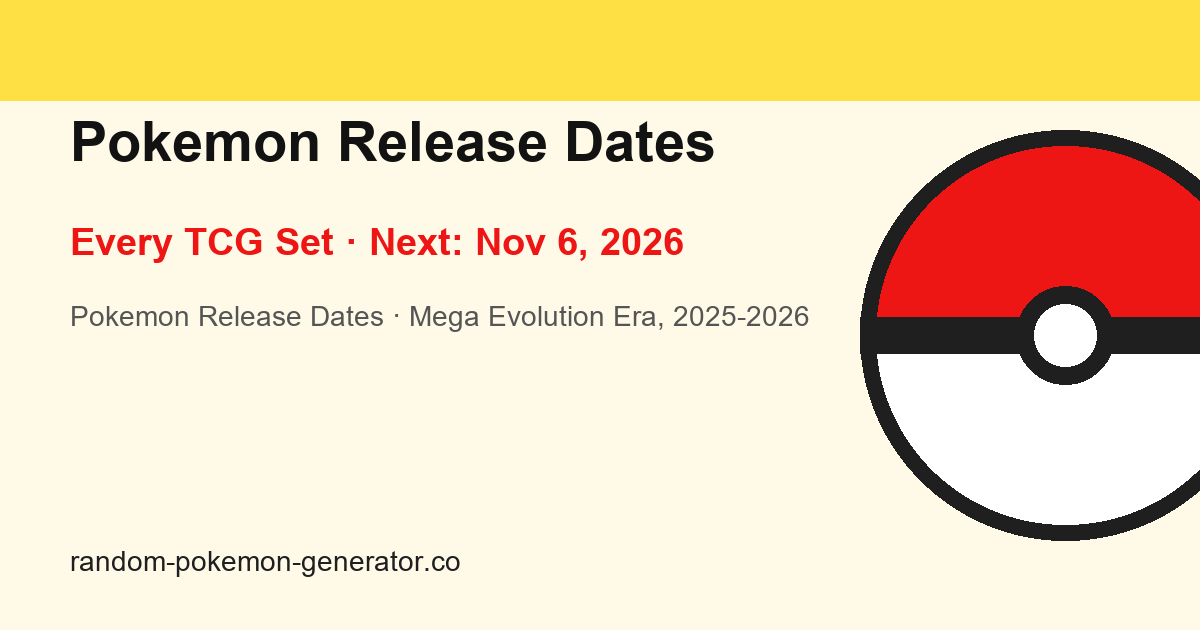
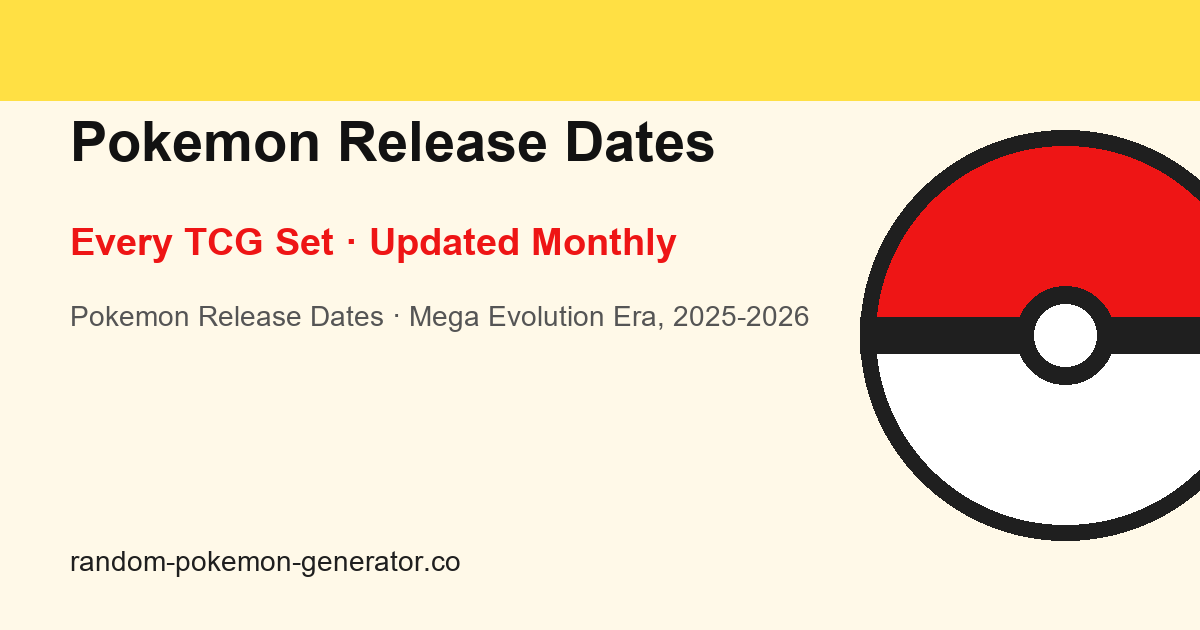
feat(release-dates): launch package - title 60 / update history / box degrade / month focus / card dates / FAQ 10
- Title -> 60-char version (Every TCG Set ... Release Calendar), synced to og/twitter
- Answer box: hook ids + JS auto-degrade after Nov 6 2026 (TBA state, hides calendar link); "Next scheduled update" line
- Update History section (launch row) at page bottom; month focus chips (last/this/next) with row highlight
- New "Pokemon Card Release Dates" section; rhythm H2 now mentions expansions; time datetime on table dates
- FAQ: 10 items (2026 slate = 4 main + 2 special; soft updated-cadence wording); q8 renamed to PAA phrasing
- og-image subtitle now timeless (Every TCG Set - Updated Monthly)
- SEO-KEYWORDS row 36 refreshed
- checks: build 37/37, smoke 40/40, site verifier green (only known links/ red)

Changed region(s): [[0.3083, 0.3619, 0.5858, 0.4222]]

diff --git a/pokemon-release-dates/index.html b/pokemon-release-dates/index.html
@@ -12,14 +12,14 @@
   </script>
   <meta charset="UTF-8" />
   <meta name="viewport" content="width=device-width, initial-scale=1.0" />
-  <title>Pokemon Release Dates 2026: Every TCG Set &amp; What's Next</title>
+  <title>Pokemon Release Dates 2026: Every TCG Set &amp; Release Calendar</title>
   <meta name="description" content="Pokemon release dates for every set: the next one, the full 2025-2026 set list in order, and a release calendar checked monthly against official announcements." />
   <meta name="robots" content="index, follow" />
   <meta name="author" content="Random Pokemon Generator" />
   <link rel="canonical" href="https://www.random-pokemon-generator.co/pokemon-release-dates/" />
 
   <!-- Open Graph -->
-  <meta property="og:title" content="Pokemon Release Dates 2026: Every TCG Set &amp; What's Next" />
+  <meta property="og:title" content="Pokemon Release Dates 2026: Every TCG Set &amp; Release Calendar" />
   <meta property="og:description" content="Pokemon release dates for every set: the next one, the full 2025-2026 set list in order, and a release calendar checked monthly against official announcements." />
   <meta property="og:type" content="website" />
   <meta property="og:url" content="https://www.random-pokemon-generator.co/pokemon-release-dates/" />
@@ -30,7 +30,7 @@
 
   <!-- Twitter Card -->
   <meta name="twitter:card" content="summary_large_image" />
-  <meta name="twitter:title" content="Pokemon Release Dates 2026: Every TCG Set &amp; What's Next" />
+  <meta name="twitter:title" content="Pokemon Release Dates 2026: Every TCG Set &amp; Release Calendar" />
   <meta name="twitter:description" content="Pokemon release dates for every set: the next one, the full 2025-2026 set list in order, and a release calendar checked monthly against official announcements." />
   <meta name="twitter:image" content="https://www.random-pokemon-generator.co/pokemon-release-dates/og-image.png" />
 
@@ -53,6 +53,7 @@
     .rd-cal .rd-mo { flex: 0 0 150px; font-weight: 700; }
     .rd-cal .rd-quiet { color: rgba(18, 18, 18, 0.55); }
     .rd-status-upcoming { font-weight: 800; }
+    .rd-cal li[data-focus] { background: rgba(255, 224, 68, 0.35); border-radius: 6px; }
   </style>
 
   <!-- Structured data: WebPage -->
@@ -156,10 +157,26 @@
       },
       {
         "@type": "Question",
-        "name": "What set comes after Delta Reign?",
+        "name": "What Pokemon set is after Delta Reign?",
         "acceptedAnswer": {
           "@type": "Answer",
           "text": "Nothing is announced yet — 2027's calendar is still empty, and this page only lists officially announced sets. When the next one is confirmed it gets added here with its date."
+        }
+      },
+      {
+        "@type": "Question",
+        "name": "What Pokemon sets are released in 2026?",
+        "acceptedAnswer": {
+          "@type": "Answer",
+          "text": "2026's slate: four main expansions — Perfect Order (March 27), Chaos Rising (May 22), Pitch Black (July 17) and Delta Reign (November 6) — plus two special sets, Ascended Heroes (January 30) and 30th Celebration (September 16)."
+        }
+      },
+      {
+        "@type": "Question",
+        "name": "How often is this page updated?",
+        "acceptedAnswer": {
+          "@type": "Answer",
+          "text": "The calendar is checked against official announcements at least once a month, and every confirmed change is recorded in the update history at the bottom of this page."
         }
       }
     ]
@@ -236,29 +253,29 @@
     <!-- Next set answer box -->
     <section class="container tool-panel" id="next" aria-label="The next Pokemon TCG set">
       <div class="panel cornered">
-        <p class="tool-hint">The short answer: the next Pokemon TCG set is Mega Evolution—Delta Reign, releasing November 6, 2026. The newest set already out is 30th Celebration, from September 16, 2026.</p>
+        <p class="tool-hint" id="rd-hint">The short answer: the next Pokemon TCG set is Mega Evolution—Delta Reign, releasing November 6, 2026. The newest set already out is 30th Celebration, from September 16, 2026.</p>
 
         <div class="odds-result-grid" aria-live="polite">
           <div class="odds-result-card cornered">
-            <div class="odds-result-num">Delta Reign</div>
-            <div class="odds-result-label">The next set</div>
+            <div class="odds-result-num" id="rd-next-num">Delta Reign</div>
+            <div class="odds-result-label" id="rd-next-label">The next set</div>
           </div>
           <div class="odds-result-card cornered">
-            <div class="odds-result-num">Nov 6, 2026</div>
-            <div class="odds-result-label">Release date</div>
+            <div class="odds-result-num" id="rd-date-num">Nov 6, 2026</div>
+            <div class="odds-result-label" id="rd-date-label">Release date</div>
           </div>
           <div class="odds-result-card cornered">
             <div class="odds-result-num" id="rd-countdown">—</div>
-            <div class="odds-result-label">Countdown to release</div>
+            <div class="odds-result-label" id="rd-countdown-label">Countdown to release</div>
           </div>
         </div>
 
         <div class="actions">
-          <a class="btn-slide cornered" href="https://calendar.google.com/calendar/render?action=TEMPLATE&amp;text=Mega%20Evolution%E2%80%94Delta%20Reign%20releases&amp;dates=20261106/20261107&amp;details=Pokemon%20TCG%3A%20Delta%20Reign%20releases%20November%206%2C%202026.%20Release%20calendar%20tracked%20at%20random-pokemon-generator.co" target="_blank" rel="noopener noreferrer"><span>📅 Add the release date to your calendar</span></a>
+          <a class="btn-slide cornered" id="rd-cal-link" href="https://calendar.google.com/calendar/render?action=TEMPLATE&amp;text=Mega%20Evolution%E2%80%94Delta%20Reign%20releases&amp;dates=20261106/20261107&amp;details=Pokemon%20TCG%3A%20Delta%20Reign%20releases%20November%206%2C%202026.%20Release%20calendar%20tracked%20at%20random-pokemon-generator.co" target="_blank" rel="noopener noreferrer"><span>📅 Add the release date to your calendar</span></a>
           <a class="btn-slide cornered" href="#sets"><span>See the full set list ↓</span></a>
         </div>
 
-        <p class="tool-note" id="rd-updated">Last checked against official announcements: September 2026. This page is reviewed monthly — the answer above changes when The Pokemon Company announces a new set or shifts one.</p>
+        <p class="tool-note" id="rd-updated">Last checked against official announcements: September 2026. Next scheduled update: November 2026. This page is reviewed monthly — the answer above changes when The Pokemon Company announces a new set or shifts one.</p>
       </div>
     </section>
 
@@ -280,14 +297,14 @@
             <tr><th>Got it</th><th>Set</th><th>Release date</th><th>Status</th><th>Notes</th></tr>
           </thead>
           <tbody>
-            <tr class="rd-row" data-year="2026" data-status="upcoming"><td><input type="checkbox" class="rd-got" data-set="delta-reign" aria-label="Mark Delta Reign as collected" /></td><td>Delta Reign</td><td>November 6, 2026</td><td class="rd-status-upcoming">Upcoming</td><td>Next main expansion · Mega Rayquaza ex; based on Japan's Storm Emeralda (July 31).</td></tr>
-            <tr class="rd-row" data-year="2026" data-status="released"><td><input type="checkbox" class="rd-got" data-set="30th-celebration" aria-label="Mark 30th Celebration as collected" /></td><td>30th Celebration</td><td>September 16, 2026</td><td>Released</td><td>Anniversary special set · first Pokemon TCG launch to go worldwide on one day.</td></tr>
-            <tr class="rd-row" data-year="2026" data-status="released"><td><input type="checkbox" class="rd-got" data-set="pitch-black" aria-label="Mark Pitch Black as collected" /></td><td>Pitch Black</td><td>July 17, 2026</td><td>Released</td><td>115+ cards · Mega Darkrai ex; based on Japan's Abyss Eye.</td></tr>
-            <tr class="rd-row" data-year="2026" data-status="released"><td><input type="checkbox" class="rd-got" data-set="chaos-rising" aria-label="Mark Chaos Rising as collected" /></td><td>Chaos Rising</td><td>May 22, 2026</td><td>Released</td><td>120+ cards · Mega Greninja ex; pre-release events ran May 9-17.</td></tr>
-            <tr class="rd-row" data-year="2026" data-status="released"><td><input type="checkbox" class="rd-got" data-set="perfect-order" aria-label="Mark Perfect Order as collected" /></td><td>Perfect Order</td><td>March 27, 2026</td><td>Released</td><td>120+ cards · Mega Zygarde ex headlines.</td></tr>
-            <tr class="rd-row" data-year="2026" data-status="released"><td><input type="checkbox" class="rd-got" data-set="ascended-heroes" aria-label="Mark Ascended Heroes as collected" /></td><td>Ascended Heroes</td><td>January 30, 2026</td><td>Released</td><td>295 cards · special set, the era's biggest checklist.</td></tr>
-            <tr class="rd-row" data-year="2025" data-status="released"><td><input type="checkbox" class="rd-got" data-set="phantasmal-flames" aria-label="Mark Phantasmal Flames as collected" /></td><td>Phantasmal Flames</td><td>November 14, 2025</td><td>Released</td><td>120+ cards · second main expansion of the era.</td></tr>
-            <tr class="rd-row" data-year="2025" data-status="released"><td><input type="checkbox" class="rd-got" data-set="mega-evolution" aria-label="Mark Mega Evolution as collected" /></td><td>Mega Evolution</td><td>September 26, 2025</td><td>Released</td><td>188 cards · opened the era with Mega Lucario ex.</td></tr>
+            <tr class="rd-row" data-year="2026" data-status="upcoming"><td><input type="checkbox" class="rd-got" data-set="delta-reign" aria-label="Mark Delta Reign as collected" /></td><td>Delta Reign</td><td><time datetime="2026-11-06">November 6, 2026</time></td><td class="rd-status-upcoming">Upcoming</td><td>Next main expansion · Mega Rayquaza ex; based on Japan's Storm Emeralda (July 31).</td></tr>
+            <tr class="rd-row" data-year="2026" data-status="released"><td><input type="checkbox" class="rd-got" data-set="30th-celebration" aria-label="Mark 30th Celebration as collected" /></td><td>30th Celebration</td><td><time datetime="2026-09-16">September 16, 2026</time></td><td>Released</td><td>Anniversary special set · first Pokemon TCG launch to go worldwide on one day.</td></tr>
+            <tr class="rd-row" data-year="2026" data-status="released"><td><input type="checkbox" class="rd-got" data-set="pitch-black" aria-label="Mark Pitch Black as collected" /></td><td>Pitch Black</td><td><time datetime="2026-07-17">July 17, 2026</time></td><td>Released</td><td>115+ cards · Mega Darkrai ex; based on Japan's Abyss Eye.</td></tr>
+            <tr class="rd-row" data-year="2026" data-status="released"><td><input type="checkbox" class="rd-got" data-set="chaos-rising" aria-label="Mark Chaos Rising as collected" /></td><td>Chaos Rising</td><td><time datetime="2026-05-22">May 22, 2026</time></td><td>Released</td><td>120+ cards · Mega Greninja ex; pre-release events ran May 9-17.</td></tr>
+            <tr class="rd-row" data-year="2026" data-status="released"><td><input type="checkbox" class="rd-got" data-set="perfect-order" aria-label="Mark Perfect Order as collected" /></td><td>Perfect Order</td><td><time datetime="2026-03-27">March 27, 2026</time></td><td>Released</td><td>120+ cards · Mega Zygarde ex headlines.</td></tr>
+            <tr class="rd-row" data-year="2026" data-status="released"><td><input type="checkbox" class="rd-got" data-set="ascended-heroes" aria-label="Mark Ascended Heroes as collected" /></td><td>Ascended Heroes</td><td><time datetime="2026-01-30">January 30, 2026</time></td><td>Released</td><td>295 cards · special set, the era's biggest checklist.</td></tr>
+            <tr class="rd-row" data-year="2025" data-status="released"><td><input type="checkbox" class="rd-got" data-set="phantasmal-flames" aria-label="Mark Phantasmal Flames as collected" /></td><td>Phantasmal Flames</td><td><time datetime="2025-11-14">November 14, 2025</time></td><td>Released</td><td>120+ cards · second main expansion of the era.</td></tr>
+            <tr class="rd-row" data-year="2025" data-status="released"><td><input type="checkbox" class="rd-got" data-set="mega-evolution" aria-label="Mark Mega Evolution as collected" /></td><td>Mega Evolution</td><td><time datetime="2025-09-26">September 26, 2025</time></td><td>Released</td><td>188 cards · opened the era with Mega Lucario ex.</td></tr>
           </tbody>
         </table>
       </div>
@@ -300,6 +317,14 @@
       <h2 id="upcoming-title">Upcoming Pokemon Sets: What Is on the Calendar</h2>
       <p class="odds-lede">One set stands between now and 2027: Mega Evolution—Delta Reign, on November 6, 2026. It is the sixth main expansion of the era, built around Mega Rayquaza ex, and the international release of Japan's Storm Emeralda. Expect the usual product wave on day one — Elite Trainer Boxes, booster displays and bundles — with Build &amp; Battle events in the run-up.</p>
       <p class="odds-lede">And then? Nothing, officially. No Pokemon TCG release dates for 2027 have been announced yet — anything you read about next year's sets is speculation, not a date. When The Pokemon Company names the next one (announcements typically land two to three months before release), it gets added here with the rest of the calendar.</p>
+    </section>
+
+    <!-- Card release dates -->
+    <section id="card-dates" class="container odds" aria-labelledby="card-dates-title">
+      <p class="eyebrow">Card level</p>
+      <h2 id="card-dates-title">Pokemon Card Release Dates: When Cards Actually Hit Shelves</h2>
+      <p class="odds-lede">A set's release date is really a week, not a day. Most expansions open with pre-release events at local game stores about two weeks before the official date — Chaos Rising ran its pre-releases May 9-17 before arriving on May 22 — and then the main wave lands everywhere at once: booster boxes, Elite Trainer Boxes and booster bundles all ship on the same day.</p>
+      <p class="odds-lede">Special sets do it differently. Ascended Heroes and 30th Celebration arrived through collection products rather than a standard booster box, and their supporting products can spread over the following weeks instead of landing on one day. Promo cards run on their own schedules too — store promos are handed out at play events, not sold on release day. So when you are planning a purchase, the date in the table above tells you when the main wave hits; the notes flag anything unusual about a specific set.</p>
     </section>
 
     <!-- In order -->
@@ -325,23 +350,29 @@
       <p class="eyebrow">Calendar</p>
       <h2 id="calendar-title">Pokemon TCG Release Calendar: Month by Month</h2>
       <p class="odds-lede">A month-level view of the same schedule — handy when you are planning a purchase window. Only headline set releases are listed; announcement and product waves land in between.</p>
+      <div class="btn-row rd-controls" id="rd-month-chips" role="group" aria-label="Focus a month">
+        <button type="button" class="chip-btn rd-month-chip" data-offset="-1" aria-pressed="false">Last month</button>
+        <button type="button" class="chip-btn rd-month-chip" data-offset="0" aria-pressed="false">This month</button>
+        <button type="button" class="chip-btn rd-month-chip" data-offset="1" aria-pressed="false">Next month</button>
+      </div>
+      <p class="rd-filter-note" id="rd-month-note" aria-live="polite">Pick a month — or read the full list below.</p>
       <ul class="rd-cal">
-        <li><span class="rd-mo">Sep 2025</span><span>Mega Evolution (Sep 26)</span></li>
-        <li><span class="rd-mo">Oct 2025</span><span class="rd-quiet">EMEA got Mega Evolution late (Oct 10) after a delivery delay</span></li>
-        <li><span class="rd-mo">Nov 2025</span><span>Phantasmal Flames (Nov 14)</span></li>
-        <li><span class="rd-mo">Dec 2025</span><span class="rd-quiet">No new set</span></li>
-        <li><span class="rd-mo">Jan 2026</span><span>Ascended Heroes (Jan 30)</span></li>
-        <li><span class="rd-mo">Feb 2026</span><span class="rd-quiet">No new set</span></li>
-        <li><span class="rd-mo">Mar 2026</span><span>Perfect Order (Mar 27)</span></li>
-        <li><span class="rd-mo">Apr 2026</span><span class="rd-quiet">No new set</span></li>
-        <li><span class="rd-mo">May 2026</span><span>Chaos Rising (May 22)</span></li>
-        <li><span class="rd-mo">Jun 2026</span><span class="rd-quiet">No new set</span></li>
-        <li><span class="rd-mo">Jul 2026</span><span>Pitch Black (Jul 17)</span></li>
-        <li><span class="rd-mo">Aug 2026</span><span class="rd-quiet">No new set</span></li>
-        <li><span class="rd-mo">Sep 2026</span><span>30th Celebration (Sep 16)</span></li>
-        <li><span class="rd-mo">Oct 2026</span><span class="rd-quiet">Quiet before the era's last 2026 set</span></li>
-        <li><span class="rd-mo">Nov 2026</span><span>Delta Reign (Nov 6) — the next release</span></li>
-        <li><span class="rd-mo">Dec 2026</span><span class="rd-quiet">Nothing announced; 2027 dates would land next</span></li>
+        <li data-month="2025-09"><span class="rd-mo">Sep 2025</span><span>Mega Evolution (Sep 26)</span></li>
+        <li data-month="2025-10"><span class="rd-mo">Oct 2025</span><span class="rd-quiet">EMEA got Mega Evolution late (Oct 10) after a delivery delay</span></li>
+        <li data-month="2025-11"><span class="rd-mo">Nov 2025</span><span>Phantasmal Flames (Nov 14)</span></li>
+        <li data-month="2025-12"><span class="rd-mo">Dec 2025</span><span class="rd-quiet">No new set</span></li>
+        <li data-month="2026-01"><span class="rd-mo">Jan 2026</span><span>Ascended Heroes (Jan 30)</span></li>
+        <li data-month="2026-02"><span class="rd-mo">Feb 2026</span><span class="rd-quiet">No new set</span></li>
+        <li data-month="2026-03"><span class="rd-mo">Mar 2026</span><span>Perfect Order (Mar 27)</span></li>
+        <li data-month="2026-04"><span class="rd-mo">Apr 2026</span><span class="rd-quiet">No new set</span></li>
+        <li data-month="2026-05"><span class="rd-mo">May 2026</span><span>Chaos Rising (May 22)</span></li>
+        <li data-month="2026-06"><span class="rd-mo">Jun 2026</span><span class="rd-quiet">No new set</span></li>
+        <li data-month="2026-07"><span class="rd-mo">Jul 2026</span><span>Pitch Black (Jul 17)</span></li>
+        <li data-month="2026-08"><span class="rd-mo">Aug 2026</span><span class="rd-quiet">No new set</span></li>
+        <li data-month="2026-09"><span class="rd-mo">Sep 2026</span><span>30th Celebration (Sep 16)</span></li>
+        <li data-month="2026-10"><span class="rd-mo">Oct 2026</span><span class="rd-quiet">Quiet before the era's last 2026 set</span></li>
+        <li data-month="2026-11"><span class="rd-mo">Nov 2026</span><span>Delta Reign (Nov 6) — the next release</span></li>
+        <li data-month="2026-12"><span class="rd-mo">Dec 2026</span><span class="rd-quiet">Nothing announced; 2027 dates would land next</span></li>
       </ul>
     </section>
 
@@ -349,7 +380,7 @@
     <section id="rhythm" class="band band-yellow" aria-labelledby="rhythm-title">
       <div class="container">
         <p class="eyebrow">How it works</p>
-        <h2 id="rhythm-title">How Pokemon Set Releases Actually Work</h2>
+        <h2 id="rhythm-title">How Pokemon TCG Expansions and Set Releases Work</h2>
         <p class="odds-lede">Three things explain almost every date on this page: the era's eight-week heart, the Japan-to-English lag, and the small print that lets dates move.</p>
         <div class="how-grid">
           <article>
@@ -413,9 +444,27 @@
         <p>A set that sits outside the numbered main expansions, usually with a different product build. Ascended Heroes (295 cards) and 30th Celebration are the two special sets of this era; everything else in the table is a main expansion.</p>
       </details>
       <details class="faq-item cornered">
-        <summary>What set comes after Delta Reign?</summary>
+        <summary>What Pokemon set is after Delta Reign?</summary>
         <p>Nothing is announced yet — 2027's calendar is still empty, and this page only lists officially announced sets. When the next one is confirmed it gets added here with its date.</p>
       </details>
+      <details class="faq-item cornered">
+        <summary>What Pokemon sets are released in 2026?</summary>
+        <p>2026's slate: four main expansions — Perfect Order (March 27), Chaos Rising (May 22), Pitch Black (July 17) and Delta Reign (November 6) — plus two special sets, Ascended Heroes (January 30) and 30th Celebration (September 16).</p>
+      </details>
+      <details class="faq-item cornered">
+        <summary>How often is this page updated?</summary>
+        <p>The calendar is checked against official announcements at least once a month, and every confirmed change is recorded in the update history at the bottom of this page.</p>
+      </details>
+    </section>
+
+    <!-- Update history -->
+    <section id="updates" class="container odds" aria-labelledby="updates-title">
+      <p class="eyebrow">Updates</p>
+      <h2 id="updates-title">Update History</h2>
+      <p class="odds-lede">Every change to this calendar is logged here with its date — the fastest way to check how fresh it is.</p>
+      <ul class="rd-cal rd-log">
+        <li><span class="rd-mo">October 2026</span><span>Page launched: the full Mega Evolution era calendar (2025-2026), with every date checked against official announcements.</span></li>
+      </ul>
     </section>
 
   </main>

diff --git a/pokemon-release-dates/release-dates.js b/pokemon-release-dates/release-dates.js
@@ -1,21 +1,35 @@
 /* ============================================================
    Pokemon Release Dates - set list filter, release countdown,
-   and a saved "collected" checklist (localStorage).
+   next-set answer box state, month focus, and a saved
+   "collected" checklist (localStorage).
    Vanilla ES5, no dependencies.
    ============================================================ */
 (function () {
   'use strict';
 
   var LS_KEY = 'rpg:releasedates-got';
+  var NEXT_SET_UTC = Date.UTC(2026, 10, 6);
+  var DEGRADE_AT = new Date(2026, 10, 7, 0, 0, 0).getTime();
 
   function $(id) { return document.getElementById(id); }
+  function setText(id, txt) { var el = $(id); if (el) { el.textContent = txt; } }
+
+  var nowMs = Date.now();
 
   // -------- countdown to the next set --------
-  var NEXT_SET_UTC = Date.UTC(2026, 10, 6); // Mega Evolution - Delta Reign, Nov 6, 2026
-  var countdownEl = $('rd-countdown');
-  if (countdownEl) {
-    var daysLeft = Math.ceil((NEXT_SET_UTC - Date.now()) / 86400000);
-    countdownEl.textContent = daysLeft > 1 ? (daysLeft + ' days') : (daysLeft === 1 ? '1 day' : 'Out now');
+  var daysLeft = Math.ceil((NEXT_SET_UTC - nowMs) / 86400000);
+  setText('rd-countdown', daysLeft > 1 ? (daysLeft + ' days') : (daysLeft === 1 ? '1 day' : 'Out now'));
+
+  // -------- answer box: degrade once Delta Reign has shipped --------
+  if (nowMs >= DEGRADE_AT) {
+    setText('rd-hint', 'The next Pokemon TCG set has not been announced yet. New sets usually land every seven to eleven weeks, and the next confirmed date will appear here as soon as it is official. The newest set already out is Mega Evolution\u2014Delta Reign, from November 6, 2026.');
+    setText('rd-next-num', 'To be announced');
+    setText('rd-next-label', 'The next set');
+    setText('rd-date-num', 'Not announced yet');
+    setText('rd-date-label', 'Release date');
+    setText('rd-countdown-label', 'Delta Reign');
+    var calLink = $('rd-cal-link');
+    if (calLink && calLink.style) { calLink.style.display = 'none'; }
   }
 
   // -------- set list filter --------
@@ -51,6 +65,66 @@
   }
   if (filterNote && total) {
     filterNote.textContent = 'Showing ' + total + ' of ' + total + ' sets.';
+  }
+
+  // -------- month focus (calendar) --------
+  var monthChips = document.querySelectorAll('.rd-month-chip');
+  var monthNote = $('rd-month-note');
+  var monthRows = document.querySelectorAll('.rd-cal li');
+  var FULL_MONTHS = ['January', 'February', 'March', 'April', 'May', 'June', 'July', 'August', 'September', 'October', 'November', 'December'];
+
+  function pad2(n) { return n < 10 ? '0' + n : '' + n; }
+
+  function monthLabel(y, m) { return FULL_MONTHS[m] + ' ' + y; }
+
+  function monthRowText(row) {
+    var spans = row.getElementsByTagName ? row.getElementsByTagName('span') : null;
+    if (spans && spans.length > 1 && spans[1].textContent) {
+      return spans[1].textContent;
+    }
+    return row.textContent || '';
+  }
+
+  function focusMonth(offset) {
+    var base = new Date(nowMs);
+    var y = base.getFullYear();
+    var m = base.getMonth() + offset;
+    while (m < 0) { m += 12; y -= 1; }
+    while (m > 11) { m -= 12; y += 1; }
+    var key = y + '-' + pad2(m + 1);
+    var found = null;
+    for (var i = 0; i < monthRows.length; i++) {
+      if (monthRows[i].getAttribute('data-month') === key) { found = monthRows[i]; }
+      monthRows[i].removeAttribute('data-focus');
+    }
+    if (found) {
+      found.setAttribute('data-focus', '1');
+      if (monthNote) { monthNote.textContent = monthLabel(y, m) + ' — ' + monthRowText(found); }
+    } else if (monthNote) {
+      monthNote.textContent = monthLabel(y, m) + ' — no sets scheduled.';
+    }
+  }
+
+  function pressMonthChips(active) {
+    for (var k = 0; k < monthChips.length; k++) {
+      monthChips[k].setAttribute('aria-pressed', monthChips[k] === active ? 'true' : 'false');
+    }
+  }
+
+  for (var mc = 0; mc < monthChips.length; mc++) {
+    monthChips[mc].addEventListener('click', (function (button) {
+      return function () {
+        pressMonthChips(button);
+        focusMonth(parseInt(button.getAttribute('data-offset'), 10));
+      };
+    }(monthChips[mc])));
+  }
+  for (var mi = 0; mi < monthChips.length; mi++) {
+    if (monthChips[mi].getAttribute('data-offset') === '0') {
+      pressMonthChips(monthChips[mi]);
+      focusMonth(0);
+      break;
+    }
   }
 
   // -------- collected checklist --------
